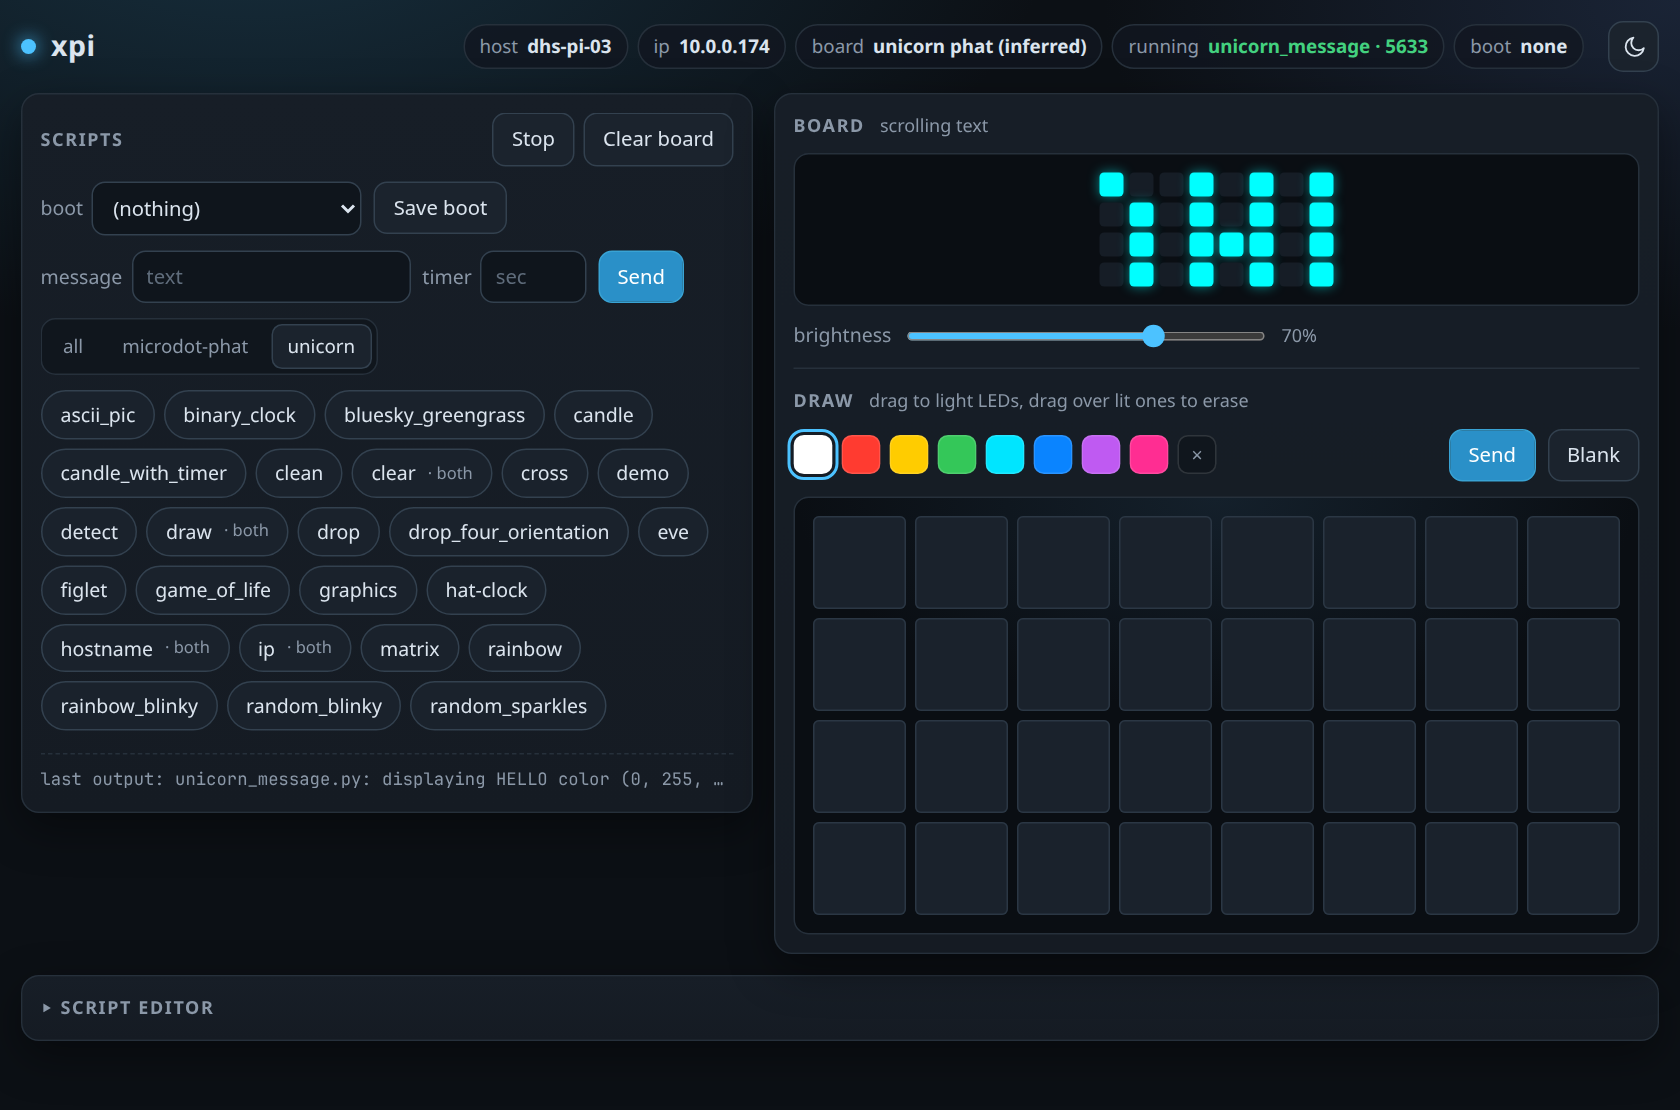
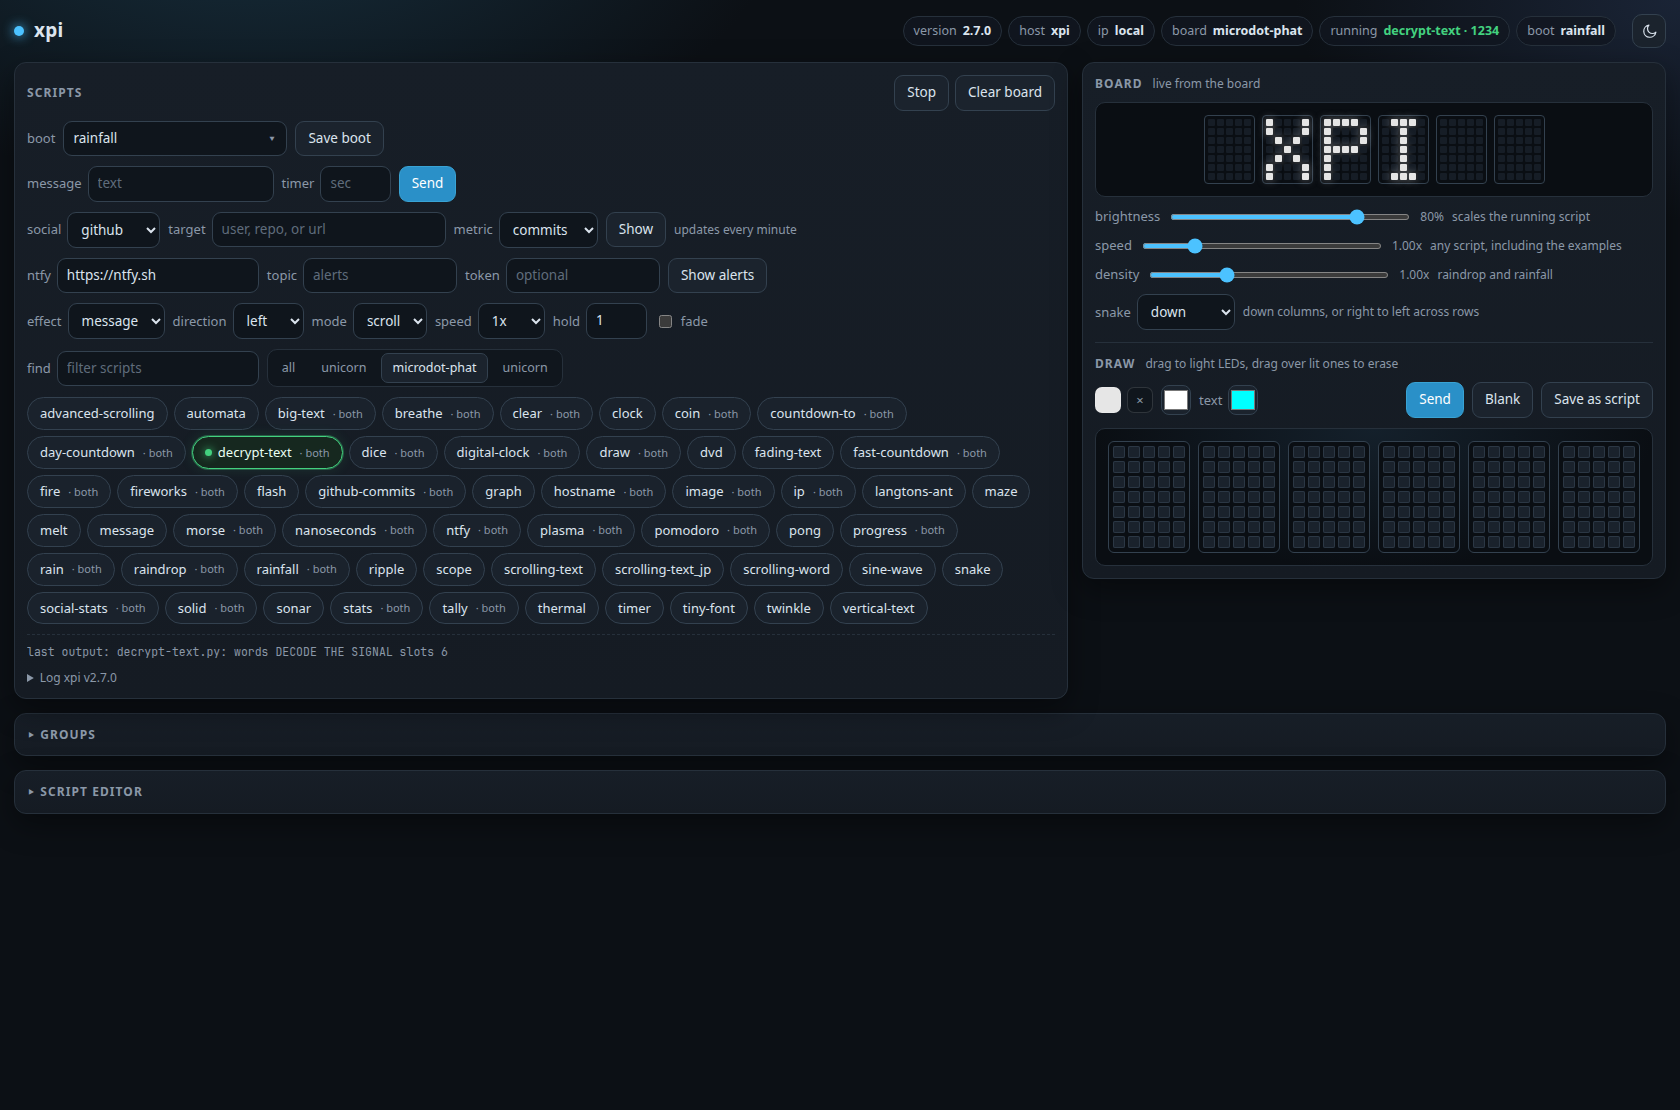
refactor(ui): use the live frame for the board viewer
Remove the duplicate message, clock, snake, progress, and draw preview code and its preview font. Keep a blank waiting state. Refresh the control page screenshot with demo data. Closes #37.

diff --git a/index.html b/index.html
@@ -1175,17 +1175,6 @@ function shapeOf(attached) {
   return { c: 8, r: 8, mono: false };
 }
 
-function visibleCols(shape) {
-  var cols = [];
-  if (shape.mono && shape.c === 45) {
-    for (var m = 0; m < 6; m++)
-      for (var c = 0; c < 5; c++) cols.push(m * 8 + c);
-  } else {
-    for (var x = 0; x < shape.c; x++) cols.push(x);
-  }
-  return cols;
-}
-
 function cellSizeFor(shape) {
   /* Viewport based: the canvas wrap grows with its content, so measuring it
      would feed the previous size back in. */
@@ -1291,23 +1280,6 @@ function setTextColor(value) {
 }
 
 function keyOf(x, y) { return x + "," + y; }
-
-var COLOR_NAMES = {
-  red: "#ff0000", green: "#00ff00", blue: "#0000ff", white: "#ffffff",
-  yellow: "#ffff00", orange: "#ff8000", purple: "#8000ff",
-  magenta: "#ff00ff", cyan: "#00ffff", pink: "#ff4080"
-};
-
-function colorCss(value) {
-  var text = String(value == null ? "" : value).trim().toLowerCase();
-  if (COLOR_NAMES[text]) return COLOR_NAMES[text];
-  if (/^#?[0-9a-f]{6}$/.test(text)) return "#" + text.replace("#", "");
-  if (/^#?[0-9a-f]{3}$/.test(text)) {
-    var t = text.replace("#", "");
-    return "#" + t[0] + t[0] + t[1] + t[1] + t[2] + t[2];
-  }
-  return "#e6e6e6";
-}
 
 function paintCell(x, y, val) {
   if (!shapeNow || x < 0 || y < 0 || x >= shapeNow.c || y >= shapeNow.r) return;
@@ -1616,66 +1588,6 @@ brightInput.addEventListener("change", function () {
 
 /* ------------------------------------------ what the board is showing --- */
 
-/* tiny 3x5 font for the preview only (message/hostname/timer scroll) */
-var P3X5 = function (ch) {
-  return FONT_MINI[ch] || FONT_MINI["?"];
-};
-var FONT_MINI = {
-  "A": ["010","101","111","101","101"],
-  "B": ["110","101","110","101","110"],
-  "C": ["011","100","100","100","011"],
-  "D": ["110","101","101","101","110"],
-  "E": ["111","100","110","100","111"],
-  "F": ["111","100","110","100","100"],
-  "G": ["011","100","101","101","011"],
-  "H": ["101","101","111","101","101"],
-  "I": ["111","010","010","010","111"],
-  "K": ["101","110","101","101","101"],
-  "L": ["100","100","100","100","111"],
-  "M": ["101","111","111","101","101"],
-  "N": ["101","111","111","111","101"],
-  "J": ["001","001","001","101","010"],
-  "X": ["101","101","010","101","101"],
-  "Z": ["111","001","010","100","111"],
-  "O": ["010","101","101","101","010"],
-  "P": ["110","101","110","100","100"],
-  "R": ["110","101","110","101","101"],
-  "S": ["011","100","010","001","110"],
-  "T": ["111","010","010","010","010"],
-  "U": ["101","101","101","101","011"],
-  "V": ["101","101","101","010","010"],
-  "W": ["101","101","111","111","101"],
-  "Y": ["101","101","010","010","010"],
-  "0": ["010","101","101","101","010"],
-  "1": ["010","110","010","010","111"],
-  "2": ["110","001","010","100","111"],
-  "3": ["110","001","110","001","110"],
-  "4": ["101","101","111","001","001"],
-  "5": ["111","100","110","001","110"],
-  "6": ["011","100","110","101","010"],
-  "7": ["111","001","010","010","010"],
-  "8": ["010","101","010","101","010"],
-  "9": ["010","101","011","001","110"],
-  " ": ["000","000","000","000","000"],
-  ":": ["000","010","000","010","000"],
-  "-": ["000","000","111","000","000"],
-  ".": ["000","000","000","000","010"],
-  "?": ["110","001","010","000","010"]
-};
-
-function textGrid(text) {
-  var rows = [];
-  for (var y = 0; y < 5; y++) rows.push([]);
-  for (var i = 0; i < text.length; i++) {
-    var g = P3X5(text[i]);
-    for (var yy = 0; yy < 5; yy++) {
-      for (var xx = 0; xx < 3; xx++) rows[yy].push(Number(g[yy][xx]));
-      rows[yy].push(0);
-    }
-  }
-  return rows;
-}
-
 function makeLedGrid(shape, cells) {
   var wrap = document.createElement("div");
   if (shape.mono && shape.c === 45) {
@@ -1745,27 +1657,6 @@ async function apiFetch(url, options) {
   options.headers = apiHeaders(options.headers);
   options.headers["X-XPI-Token"] = token;
   return fetch(url, options);
-}
-
-/* --------------------------------------------------------- time helpers --- */
-
-function secondsToMidnight() {
-  var now = new Date();
-  var midnight = new Date(now.getFullYear(), now.getMonth(), now.getDate() + 1);
-  return Math.max(0, (midnight - now) / 1000);
-}
-
-function hhmmss(total) {
-  var secs = Math.max(0, Math.floor(total));
-  var h = Math.floor(secs / 3600);
-  var m = Math.floor((secs % 3600) / 60);
-  var s = secs % 60;
-  return (h < 10 ? "0" : "") + h + ":" + (m < 10 ? "0" : "") + m + ":"
-    + (s < 10 ? "0" : "") + s;
-}
-
-function fastCount() {
-  return Math.round(999999 * secondsToMidnight() / 86400);
 }
 
 function frameMatches(frame) {
@@ -1895,102 +1786,10 @@ function renderPreview(designState) {
   var box = document.getElementById("preview");
   box.innerHTML = "";
   var shape = shapeOf(state.attached);
+  box.appendChild(makeLedGrid(shape, []));
   var note = document.getElementById("previewNote");
-  var cells = [];
-  var cols = visibleCols(shape);
-  var textColor = shape.mono ? "#e6e6e6" : colorCss(designState && designState.color);
-
-  var fillTextPreview = function (text) {
-    var rows = textGrid(text);
-    var off = Math.floor((Date.now() / 120) % rows[0].length);
-    for (var y = 0; y < Math.min(5, shape.r); y++) {
-      for (var i = 0; i < cols.length; i++) {
-        cells[y * shape.c + cols[i]] = rows[y][(i + off) % rows[0].length]
-          ? textColor : null;
-      }
-    }
-  };
-
-  var runningScript = state.running || "";
-  if (runningScript === "draw" && designState && designState.pixels != null) {
-    var pxs = [];
-    try { pxs = JSON.parse(designState.pixels); } catch (e) {}
-    pxs.forEach(function (p) {
-      if (Array.isArray(p) && p.length >= 2 && typeof p[0] === "number")
-        cells[p[1] * shape.c + p[0]] = (p[2] || (shape.mono ? "#e6e6e6" : "#fff"));
-    });
-    note.textContent = "exact pixels on the board";
-  } else if (runningScript === "message" || runningScript === "unicorn_message") {
-    fillTextPreview(String(designState.message || "hi").toUpperCase());
-    note.textContent = "scrolling text";
-  } else if (runningScript === "timer") {
-    var left = Math.max(0, (designState.seconds || 60) - 1);
-    var mm = Math.floor(left / 60), ss = left % 60;
-    fillTextPreview(mm + ":" + (ss < 10 ? "0" : "") + ss);
-    note.textContent = "countdown (approx)";
-  } else if (runningScript === "hostname") {
-    fillTextPreview(String(designState.hostname || "pi").toUpperCase());
-    note.textContent = "scrolling hostname";
-  } else if (runningScript === "clock" || runningScript === "digital-clock") {
-    var now = new Date();
-    fillTextPreview(("0" + now.getHours()).slice(-2) + ":"
-                    + ("0" + now.getMinutes()).slice(-2));
-    note.textContent = "clock";
-  } else if (runningScript === "day-countdown") {
-    fillTextPreview(hhmmss(secondsToMidnight()));
-    note.textContent = "time left in the day";
-  } else if (runningScript === "fast-countdown") {
-    fillTextPreview(String(fastCount()));
-    note.textContent = "999999 scaled to the day";
-  } else if (runningScript === "nanoseconds") {
-    fillTextPreview(String(Date.now() % 1000000).padStart(6, "0"));
-    note.textContent = "changes at every refresh";
-  } else if (runningScript === "ip") {
-    fillTextPreview(((state.hostname || "pi") + " " + (state.ip || "")).toUpperCase());
-    note.textContent = "hostname and ip";
-  } else if (runningScript === "tally") {
-    fillTextPreview(String((designState && designState.count) || "0"));
-    note.textContent = "tally";
-  } else if (runningScript === "progress") {
-    var pct = Math.max(0, Math.min(100, Number((designState && designState.percent) || 0)));
-    for (var py = 0; py < shape.r; py++)
-      for (var i = 0; i < cols.length; i++)
-        if (i < Math.round(cols.length * pct / 100))
-          cells[py * shape.c + cols[i]] = textColor;
-    note.textContent = pct + "%";
-  } else if (runningScript === "solid") {
-    for (var sy = 0; sy < shape.r; sy++)
-      for (var sx = 0; sx < shape.c; sx++) cells[sy * shape.c + sx] = textColor;
-    note.textContent = "solid " + (designState.color || "white");
-  } else if (runningScript === "snake") {
-    var snakePath = [];
-    var visCols = Math.floor((shape.c + 3) / 8) * 5;
-    if (designState && designState.snake_path === "sideways") {
-      for (var ny = 0; ny < shape.r; ny++) {
-        for (var nx = 0; nx < visCols; nx++) {
-          var px = ny % 2 ? nx : visCols - 1 - nx;
-          snakePath.push([Math.floor(px / 5) * 8 + px % 5, ny]);
-        }
-      }
-    } else {
-      for (var nx = 0; nx < visCols; nx++) {
-        var bx = Math.floor(nx / 5) * 8 + nx % 5;
-        for (var ny = 0; ny < shape.r; ny++)
-          snakePath.push([bx, nx % 2 ? shape.r - 1 - ny : ny]);
-      }
-    }
-    var period = 42, phase = Math.floor(Date.now() / 120) % period;
-    for (var ni = 0; ni < snakePath.length; ni++) {
-      if ((ni - phase + period) % period < 8)
-        cells[snakePath[ni][1] * shape.c + snakePath[ni][0]] = textColor;
-    }
-    note.textContent = "snakes crawling the LEDs";
-  } else if (runningScript) {
-    note.textContent = "'" + runningScript + "' drives the hardware, no preview";
-  } else {
-    note.textContent = "nothing running";
-  }
-  box.appendChild(makeLedGrid(shape, cells));
+  note.textContent = "waiting for a live frame";
+  note.title = "";
 }
 
 /* ------------------------------------------ script upload / edit / delete --- */

diff --git a/version.py b/version.py
@@ -7,7 +7,7 @@
 
 import re
 
-__version__ = "2.6.10"
+__version__ = "2.7.0"
 
 _SEMVER = re.compile(r"^(0|[1-9]\d*)\.(0|[1-9]\d*)\.(0|[1-9]\d*)$")
 _match = _SEMVER.match(__version__)

diff --git a/docs/api.md b/docs/api.md
@@ -143,7 +143,7 @@ on your own network.
 `?action=backup` returns one JSON object:
 
 ```json
-{"version": "2.6.10", "config": {}, "state": {}, "scripts": {"rain.py": "..."}}
+{"version": "2.7.0", "config": {}, "state": {}, "scripts": {"rain.py": "..."}}
 ```
 
 POST it back to `?action=restore` to write the scripts and config in. Useful
